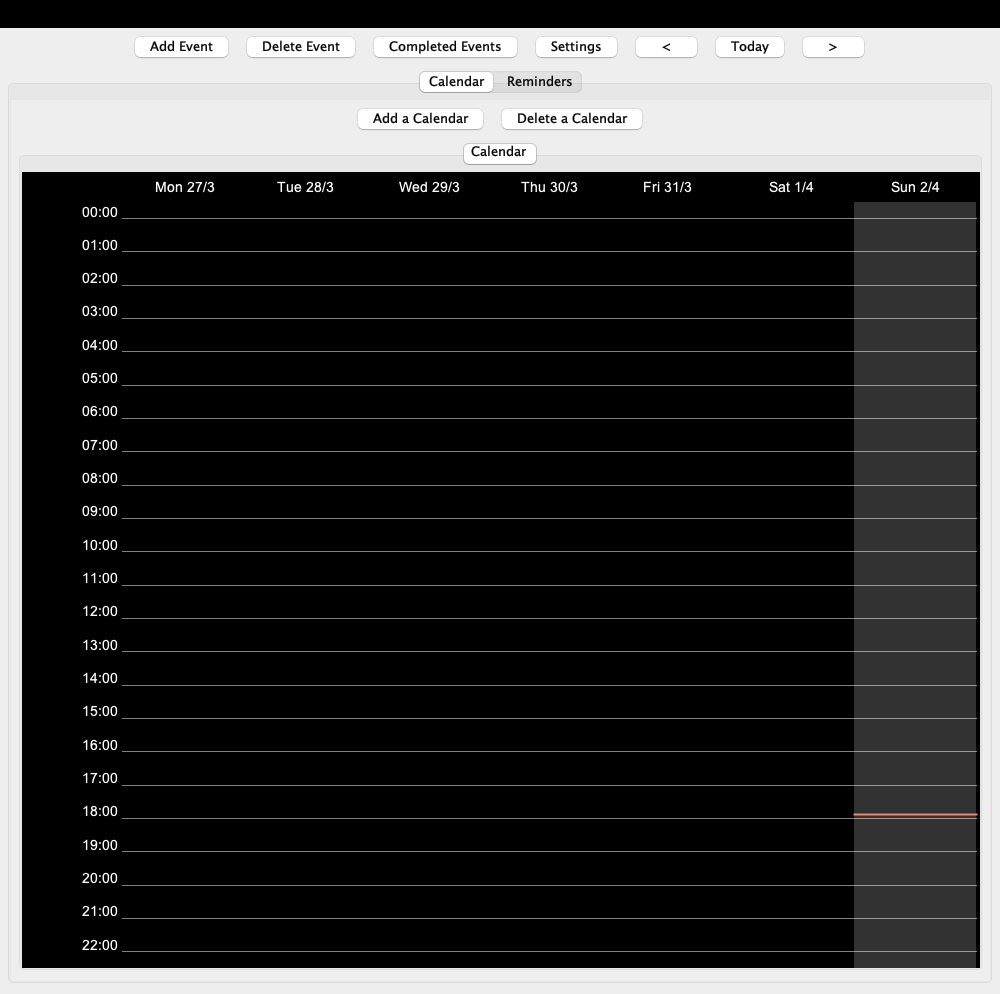
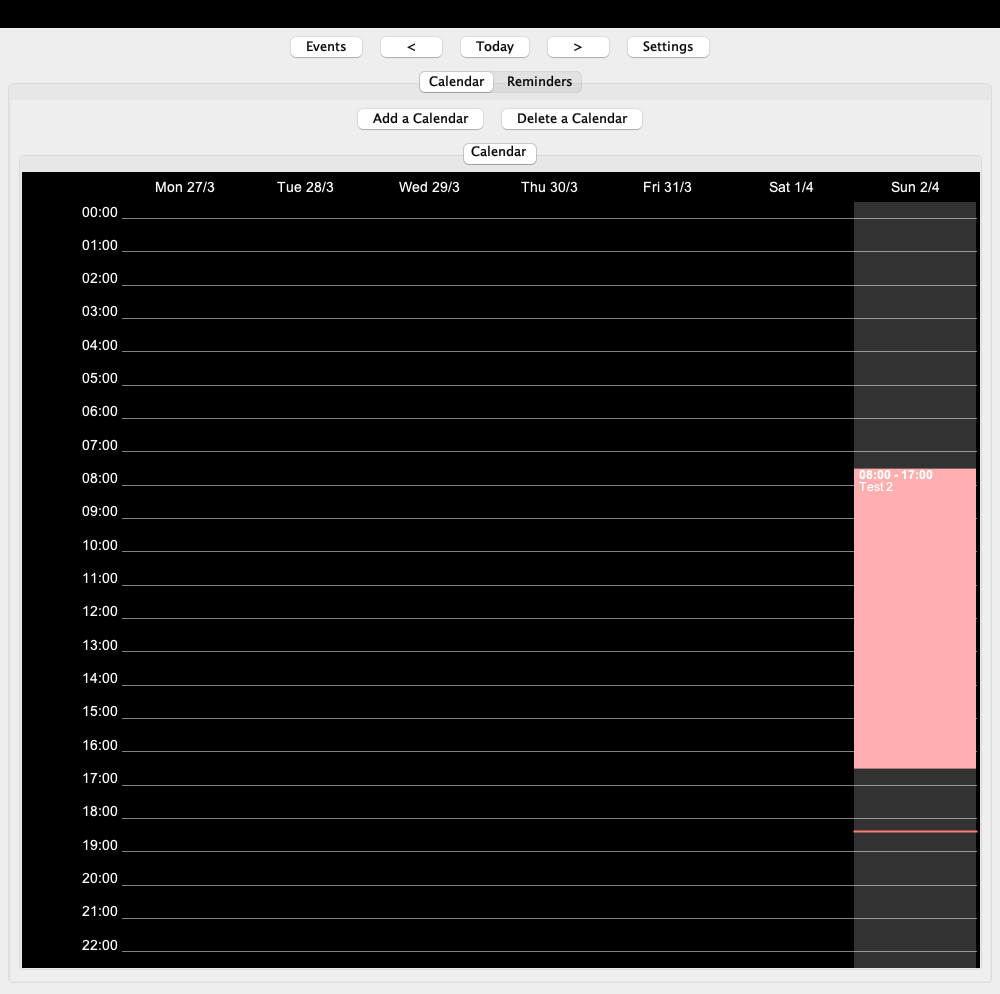
Merged Yaqub & Fahad's work

diff --git a/PlanPerfect/test/WeekCalendarTest.java b/PlanPerfect/test/WeekCalendarTest.java
@@ -240,48 +240,45 @@ public class WeekCalendarTest {
 			}
         }); 
 
-		// This button display the event that is passed
-		JButton EventsPassedButton = new JButton("Completed Events");
-		EventsPassedButton.addActionListener(e -> {
-			ArrayList<CalendarEvent> EventsPassed = cal.getEventAlreadyPassed();
+		
+		JButton EventsButton = new JButton("Events");
 
-			// Check if there is any event added that is passed.
+		EventsButton.addActionListener(e -> {
+		  Object[] GivenOptions = {"Completed Events", "Add Events","Delete Event"};
+		  int Choosedchoice = JOptionPane.showOptionDialog(frm, "", "Events", JOptionPane.YES_NO_OPTION,JOptionPane.PLAIN_MESSAGE,null, GivenOptions,GivenOptions[0]);
+		  if (Choosedchoice == 0) {
+			
+			  //Display completed events
+	  
+			ArrayList<CalendarEvent> EventsPassed = cal.getEventAlreadyPassed();
 			if (EventsPassed.isEmpty()) {
 				JOptionPane.showMessageDialog(frm, "NO EVENT/REMINDERS PASSED");
-
 			} else {
-
 				StringBuilder stringBuilder = new StringBuilder();
 				for (CalendarEvent event : EventsPassed) {
 					stringBuilder.append(event.toString()).append("\n");
 				}
-				// Display this message at the end
-				JOptionPane.showMessageDialog(frm, stringBuilder.toString(), "Passed Events/Reminders",
-						JOptionPane.PLAIN_MESSAGE);
+				JOptionPane.showMessageDialog(frm, stringBuilder.toString(), "Passed Events/Reminders", JOptionPane.PLAIN_MESSAGE);
 			}
-		});
-
-		// This button is use to add the event
-		JButton ADD_EVENT_BUTTON = new JButton("Add Event");
-
-		// Adding Action Listner
-		ADD_EVENT_BUTTON.addActionListener(e -> {
-			// Giving user differnet options to input
+		  }else if (Choosedchoice == 1) {
+			//Add new event
 			JTextField EventName = new JTextField(20);
 			JTextField Day = new JTextField(10);
 			JTextField start_Time = new JTextField(6);
 			JTextField end_Time = new JTextField(6);
+			JTextField location= new JTextField(20);
 			JLabel repeatLabel = new JLabel("Repeat:");
-			JLabel endDateLabel = new JLabel("End Date (Format: YYYY-MM-DD)");
-			JTextField endDateField = new JTextField(10);
-			JPanel AddEvent_panel = new JPanel(new GridLayout(0, 2));// Set up the grid layout
+            JLabel endDateLabel = new JLabel("End Date (Format: YYYY-MM-DD)");
+            JTextField endDateField = new JTextField(10);
+			JPanel AddEvent_panel = new JPanel(new GridLayout(0, 2));
 
 			JTextField goalField = new JTextField(20);
 
-			// Repeat events options and labels
-			String[] repeatOptions = { "Never", "Every Day", "Every 2 Days", "Every Week", "Every 2 Weeks",
-					"Every Month", "Every Year" };
-			JComboBox<String> repeatDropdown = new JComboBox<>(repeatOptions);
+            // Repeat events options and labels
+            String[] repeatOptions = { "Never", "Every Day", "Every 2 Days", "Every Week", "Every 2 Weeks",
+                    "Every Month", "Every Year" };
+            JComboBox<String> repeatDropdown = new JComboBox<>(repeatOptions);
+
 
 			AddEvent_panel.add(new JLabel("Name"));
 			AddEvent_panel.add(EventName);
@@ -291,107 +288,61 @@ public class WeekCalendarTest {
 			AddEvent_panel.add(start_Time);
 			AddEvent_panel.add(new JLabel("End Time (Format: HH:mm)"));
 			AddEvent_panel.add(end_Time);
-			AddEvent_panel.add(repeatLabel);
-			AddEvent_panel.add(repeatDropdown);
-			AddEvent_panel.add(endDateLabel);
-			AddEvent_panel.add(endDateField);
-			AddEvent_panel.add(new JLabel("My Goal"));
-			AddEvent_panel.add(goalField);
+			AddEvent_panel.add(new JLabel("Location of Event"));
+			AddEvent_panel.add(location);
 
-			// Tiltle of the panel and and too close the panel
 			int Display = JOptionPane.showConfirmDialog(null, AddEvent_panel, "Add the Event",
-					JOptionPane.OK_CANCEL_OPTION, JOptionPane.PLAIN_MESSAGE);
-			
-			// Add when user will enter click Ok
+				JOptionPane.OK_CANCEL_OPTION, JOptionPane.PLAIN_MESSAGE);
 			if (Display == JOptionPane.OK_OPTION) {
-				try {
-					String name = EventName.getText();
-					LocalDate startDate = LocalDate.parse(Day.getText());
-					LocalTime startTime = LocalTime.parse(start_Time.getText());
-					LocalTime endTime = LocalTime.parse(end_Time.getText());
-					RepeatingEventGenerator.RepeatOption repeatOption = RepeatingEventGenerator.repeatOptionFromString(
-							(String) repeatDropdown.getSelectedItem());
-					LocalDate endDate = null;
-					try {
-						endDate = LocalDate.parse(endDateField.getText());
-					} catch (DateTimeParseException ex) {
-						// Ignore exception if no end date is provided
-					}
-
-					List<CalendarEvent> newEvents = RepeatingEventGenerator.generateRepeatingEvents(
-							new CalendarEvent(startDate, startTime, endTime, name), repeatOption, endDate);
-
-					cal.addEvents(newEvents);
-					events.addAll(newEvents);
-
-					for (CalendarEvent newEvent : newEvents) {
-						String goal = goalField.getText();
-
-						newEvent.setGoal(goal); // Set the goal for each new event
-					}
-
-					cal.repaint();
-					cal.revalidate();
-
-				} catch (DateTimeParseException ex) {
-					JOptionPane.showMessageDialog(null, "Invalid date or time format");
-				}
+				String name = EventName.getText();
+				LocalDate startDate = LocalDate.parse(Day.getText());
+				LocalTime startTime = LocalTime.parse(start_Time.getText());
+				LocalTime endTime = LocalTime.parse(end_Time.getText());
+				CalendarEvent newEvent = new CalendarEvent(startDate, startTime, endTime, name);
+				events.add(newEvent);
+				cal.repaint();
 			}
-		});
-		JButton DELETE_EVENT_BUTTON = new JButton("Delete Event");
-		DELETE_EVENT_BUTTON.addActionListener(e -> {
+		  }else if (Choosedchoice == 2) {
+			//Delete event
 			JTextField EnterName = new JTextField(30);
 			JPanel DELETE_EVENT_Panel = new JPanel(new GridLayout(1, 1));
 			DELETE_EVENT_Panel.add(new JLabel("Enter Event Name to Delete: "));
 			DELETE_EVENT_Panel.add(EnterName);
-
 			int Result = JOptionPane.showConfirmDialog(null, DELETE_EVENT_Panel, "Delete the Event",
-					JOptionPane.OK_CANCEL_OPTION, JOptionPane.PLAIN_MESSAGE);
+				JOptionPane.OK_CANCEL_OPTION, JOptionPane.PLAIN_MESSAGE);
 			if (Result == JOptionPane.OK_OPTION) {
 				String NAME_OF_EVENT = EnterName.getText();
 				events.removeIf(event -> event.getText().equals(NAME_OF_EVENT));
-				cal.repaint(); // To display the result on GUI
+				cal.repaint();
 			}
+		  }
 		});
-
-		JPanel weekControls = new JPanel();
-		weekControls.add(ADD_EVENT_BUTTON); // Adding "ADD_EVENT_BUTTON" in the GUI
-		weekControls.add(DELETE_EVENT_BUTTON);// Adding "DELETE_EVENT_BUTTON" in the GUI
-		weekControls.add(EventsPassedButton); // Adding "Completed Events" in the GUI
-		weekControls.add(SettingsButton);
-
-		weekControls.add(prevWeekBtn);
-		weekControls.add(goToTodayBtn);
-		weekControls.add(nextWeekBtn);
-
-		// weekControls.add(prevMonthBtn);
-		// weekControls.add(nextMonthBtn);
-
+		
+	  
+			  JPanel weekControls = new JPanel();
+			  
+			  weekControls.add(EventsButton); 
+			  
+			  
+			  weekControls.add(prevWeekBtn);
+			  weekControls.add(goToTodayBtn);
+			  weekControls.add(nextWeekBtn);
+			  
+			  
+			  
+	  
+			  weekControls.add(SettingsButton);
+			
+	  
+	  
+			  frm.add(weekControls, BorderLayout.NORTH);
+			  
+	  
 		frm.add(weekControls, BorderLayout.NORTH);
-		frm.setSize(1000, 1000);
-		frm.setVisible(true);
-		// frm.add(new JScrollPane(), BorderLayout.CENTER);
-		frm.setDefaultCloseOperation(WindowConstants.EXIT_ON_CLOSE);
-
-		// Create a new BufferedImage with the size of the frame
-		BufferedImage image = new BufferedImage(frm.getWidth(), frm.getHeight(), BufferedImage.TYPE_INT_RGB);
-
-		// Get the Graphics2D object for the image
-		Graphics2D g2d = image.createGraphics();
-
-		// Render the calendar to the image
-		frm.paint(g2d);
-
-		// Dispose of the Graphics2D object to free up resources
-		g2d.dispose();
-
-		// Save the image to a file
-		try {
-			File output = new File("calendar.png");
-			ImageIO.write(image, "png", output);
-		} catch (IOException e) {
-			e.printStackTrace();
-		}
-
-	}
+        frm.setSize(1000, 1000);
+        frm.setVisible(true);
+        // frm.add(new JScrollPane(), BorderLayout.CENTER);
+        frm.setDefaultCloseOperation(WindowConstants.EXIT_ON_CLOSE);
+			  
+		  }
 }
